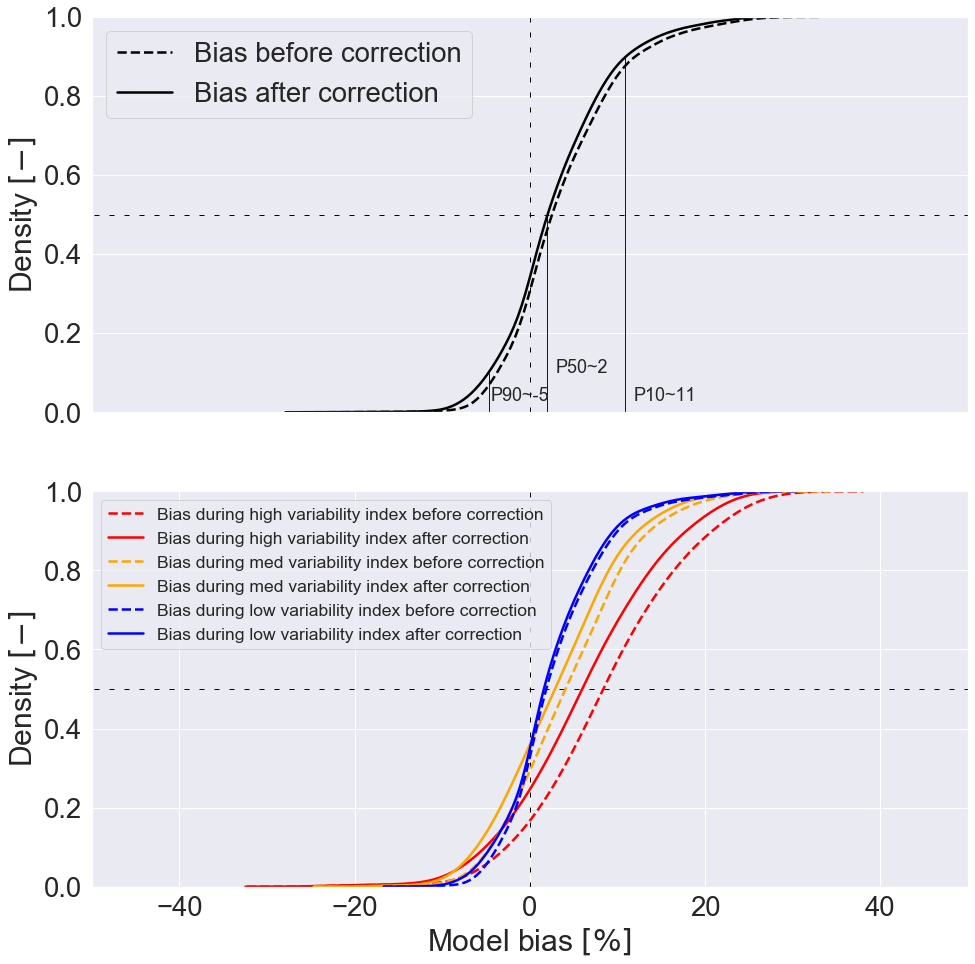
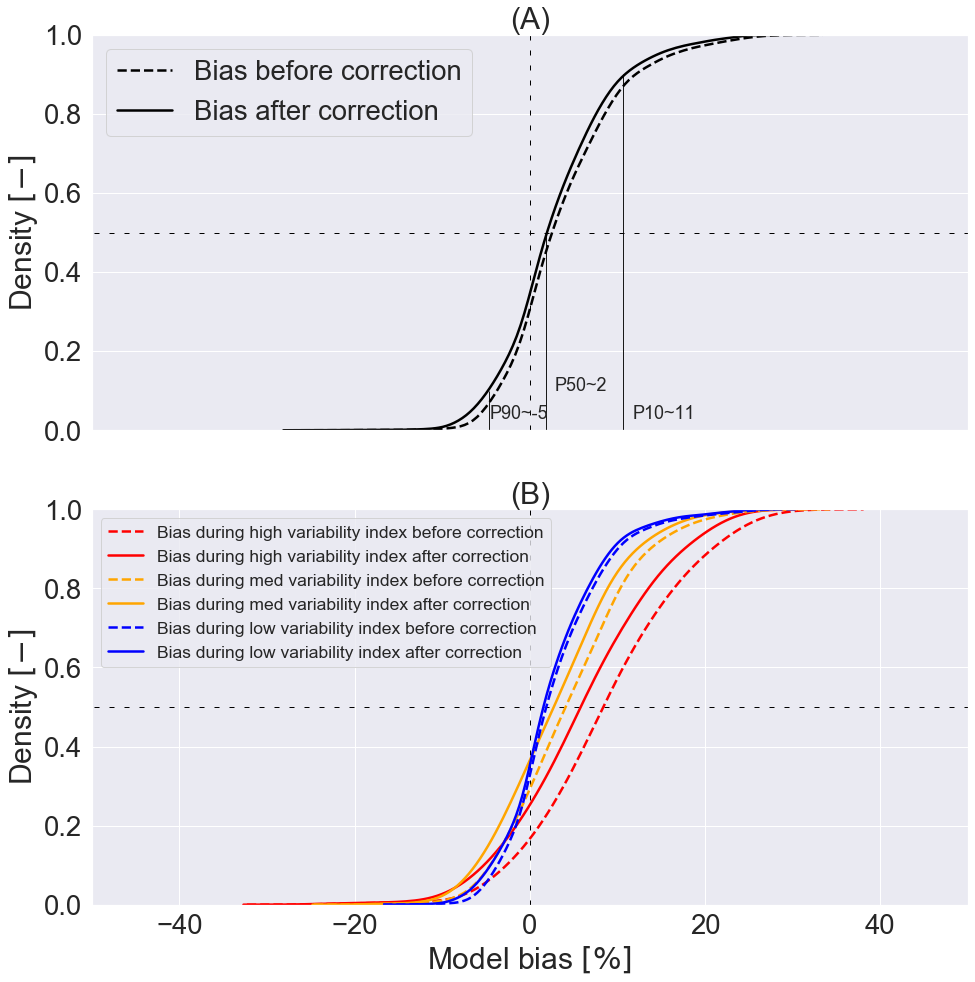
final version

diff --git a/clipping-loss-validation.tex b/clipping-loss-validation.tex
@@ -22,7 +22,7 @@
 
 \title{Validation of Subhourly Clipping Loss Error Corrections}
 
-\author{\IEEEauthorblockN{Abhishek Parikh\textsuperscript{1}, Kevin Anderson\textsuperscript{2}, Kirsten Perry\textsuperscript{2}, William B. Hobbs\textsuperscript{3}, Rounak Kharait\textsuperscript{1},}
+\author{\IEEEauthorblockN{Abhishek Parikh\textsuperscript{1}, Kirsten Perry\textsuperscript{2},Kevin Anderson\textsuperscript{2}, William B. Hobbs\textsuperscript{3}, Rounak Kharait\textsuperscript{1},}
 \IEEEauthorblockN{and Mark A. Mikofski\textsuperscript{1}}
 	\IEEEauthorblockA{\textsuperscript{1}DNV, San Diego, CA, 92123, USA }
     \IEEEauthorblockA{\textsuperscript{2}NREL, Golden, CO, 80401, USA }
@@ -31,7 +31,7 @@
 \maketitle
 
 \begin{abstract}
-Under-performance of solar PV systems is an important issue that increases risks for stakeholders, including developers, investors and operators. Recently some attention has focused on underestimation of inverter clipping losses as a possible source of over-prediction where sub-hourly solar variability is high. Several models and data sets have been analyzed over the past few years, with the aim of quantifying, predicting, and correcting underestimated clipping loss errors for systems with high DC/AC ratio and solar variability. In this research, we apply a machine learning model developed at NREL to two physical PV systems, to correct for subhourly clipping losses. For each system, we compare overall AC power output for the model taken at 1-minute intervals to AC power output taken at 1-hour intervals with the addition of the subhourly clipping correction. Our findings consistently show that the addition of the clipping loss correction lead to a reduction in mean bias error of 0.6\% and 1.1\% for systems A and B, respectively, with no additional filtering applied. When examining high solar variability periods where clipping is more pronounced, system A and B experienced a 1.4\% and 2.5\% reduction in mean bias error, respectively, when the clipping correction was applied.
+Under-performance of solar PV systems is an important issue that increases risks for stakeholders, including developers, investors and operators. Recently some attention has focused on underestimation of inverter clipping losses as a possible source of over-prediction where sub-hourly solar variability is high. Several models and data sets have been analyzed over the past few years, with the aim of quantifying, predicting, and correcting underestimated clipping loss errors for systems with high DC/AC ratio and solar variability. In this research, we apply a machine learning model developed at NREL to two physical PV systems, to correct for subhourly clipping losses. For each system, we compare overall AC power output for the model taken at 1-minute intervals to AC power output taken at 1-hour intervals with the addition of the subhourly clipping correction. Our findings consistently show that the addition of the clipping loss correction lead to a reduction in mean bias error of 0.8\% and 1.2\% for systems A and B, respectively, with no additional filtering applied. When examining high solar variability periods where clipping is more pronounced, system A and B experienced a 1.8\% and 2.7\% reduction in mean bias error, respectively, when the clipping correction was applied.
 \end{abstract}
 
 \begin{IEEEkeywords}
@@ -39,9 +39,9 @@ inverter, clipping, solar, irradiance, variability, performance, modeling, TMY
 \end{IEEEkeywords}
 
 \section{Introduction}
-In its report "2020 Solar Risk Assessment" \cite{Matsui2020}, kWh Analytics warned that systematic underproduction across the industry exposes investors to increased risk. DNV found that a sample of 39 projects from 2019 were under-performing compared to their pre-construction energy assessments by 3\% on average, as shown in Fig.~\ref{fig:project-underperformance}. NextEra estimates that sub-hourly solar resource variability can affect actual energy production by approximately 1-4\% \cite{Bradford}. Cormode, \textit{et al.}, explained that energy assessments based on hourly weather, like typical meteorological year (TMY) data sets, underestimate inverter clipping losses by up to 5\% for projects with intra-hourly solar variability, especially for high DC/AC ratios \cite{Cormode2019}. This is demonstrated in Fig.~\ref{fig:irradiance-and-power}, which shows irradiance and power output simulated at 1-minute and 1-hour resolution in the top and bottom panels, respectively. On July 10th, there is little intra-hour variability, indicative of a mostly clear day where hourly and sub-hourly simulations are in close agreement. In contrast, July 13th has much higher solar variability, but no clipping is observed in the 1-hour output. However, the 1-minute resolution shows intermittent clipping all day long, indicating that not all of the available irradiance is used by the system, and the hourly simulations underestimate inverter clipping \cite{Kharait}.
+In its report "2020 Solar Risk Assessment" \cite{Matsui2020}, kWh Analytics warned that systematic underproduction across the industry exposes investors to increased risk. DNV found that a sample of 39 projects from 2019 were under-performing compared to their pre-construction energy assessments by 3\% on average, as shown in Fig.~\ref{fig:project-underperformance}. NextEra estimates that sub-hourly solar resource variability can affect actual energy production by approximately 1-4\% \cite{Bradford}. Cormode, \textit{et al.}, explained that energy assessments based on hourly weather, like typical meteorological year (TMY) data sets, underestimate inverter clipping losses by up to 5\% for projects at an annual level with intra-hourly solar variability, especially for high DC/AC ratios \cite{Cormode2019}. Allen, \textit{et al.}, used measured 1-minute weather data to model clipping loss underestimation from using hourly data, in the Southeast US \cite{Allen2015} and at ten sites across the country \cite{Allen2018}, for a range of DC/AC ratios and, for a subset of sites, across multiple years. They estimated similar errors, with some sites seeing errors of 2 to over 4\% for DC/AC ratios of 1.4 to 2.0, respectively. This is demonstrated in Fig.~\ref{fig:irradiance-and-power}, which shows irradiance and power output simulated at 1-minute and 1-hour resolution in the top and bottom panels, respectively. On July 10th, there is little intra-hour variability, indicative of a mostly clear day where hourly and sub-hourly simulations are in close agreement. In contrast, July 13th has much higher solar variability, but no clipping is observed in the 1-hour output. However, the 1-minute resolution shows intermittent clipping all day long, indicating that not all of the available irradiance is used by the system, and the hourly simulations underestimate inverter clipping \cite{Kharait}.
 
-% what does the team think about citing (non-peer-reviewed) PVPMC posters? one or more of the posters that Jon Allen has presented (with me, sometimes EPRI) could be worth citing. 
+
 
 \begin{figure}[htbp]
 \centerline{\includegraphics[width=9cm]{fig1.png}}
@@ -58,9 +58,9 @@ In its report "2020 Solar Risk Assessment" \cite{Matsui2020}, kWh Analytics warn
 \end{figure}
 
 
-Several methods have been proposed to correct clipping loss error in hourly predictions \cite{Cormode2019,Kharait,Anderson2020,Bradford}, but only NextEra validated their method with operational data \cite{Bradford}. 
-% consider adding a reference to Hofmann 2014 (https://doi.org/10.1155/2014/808509), used in PV*SOL (see Lindemann presentation from 2017 PVPMC in ABQ, https://pvpmc.sandia.gov/resources-and-events/events/2017-8th-pv-performance-modeling-workshop/)
-In this report, we adapt the NREL machine learning-based model \cite{Anderson2020} to predict clipping loss corrections and apply these corrections to hourly energy assessments. The adjusted energy assessment is then validated against operational data from the same system and we report on the average and distribution of validation errors.  We have obtained data from two operating PV systems in Georgia, US, with DC/AC ratios around 1.4. In this paper, we will outline our method and present model validation results for these two systems. 
+Several methods have been proposed to correct clipping loss error in hourly predictions \cite{Cormode2019,Kharait,Anderson2020,Bradford,Allen2019,hofmann2014improved}, but only NextEra validated their method with operational power data \cite{Bradford}. 
+
+In this report, we adapt the NREL machine learning-based model \cite{Anderson2020} to predict clipping loss corrections and apply these corrections to hourly energy assessments. The adjusted energy assessment is then validated against operational data from the same system and we report on the average and distribution of validation errors.  We have obtained data from two operating PV systems in the southeast US, with DC/AC ratios around 1.4. In this paper, we will outline our method and present model validation results for these two systems. 
 
 \section{Methods}
 
@@ -74,7 +74,7 @@ The machine learning (ML) model developed at NREL has already been described in 
 \item System DC/AC ratio
 \item Modeled AC power (taken from the SAM simulation) 
 \end{itemize}
-The model was trained using high quality irradiance measurements from data sources including SURFRAD, SOLRAD, UOSRML, MIDC, and BSRN \cite{Augustine2000} and 1-minute to 30-minute clipping loss errors predicted using SAM \cite{Freeman2018}. The resulting trained model was then used to make predictions at the operational systems.
+The model was trained using high quality irradiance measurements from data sources including SURFRAD, SOLRAD, UOSRML, MIDC, and BSRN \cite{Augustine2000} \cite{solrad} and 1-minute to 30-minute clipping loss errors predicted using SAM \cite{Freeman2018}. The resulting trained model was then used to make predictions at the operational systems.
 
 \subsection{Systems}
 
@@ -109,14 +109,14 @@ Ground coverage ratio & 0.3 & 0.3 \\
 \subsection{Validation}
 A challenge in validating the clipping loss correction model is the lack of quality high-frequency irradiance measurements that are co-located with operational PV systems. Therefore this model differs from traditional approaches for model training and validation because it relies on high-quality ground station data measurements and SAM-simulated data to train the model, but uses operational data from different systems for validation. So no holdout methods are required in validating this model because the training and validation data sets are already independent. The downside of this method is that any systematic biases in SAM are introduced into the clipping loss correction model. In future work, if a large population of high-frequency irradiance and co-located operational data are obtained, the model can be retrained holding out a subset of the data for validation. This procedure would have the benefit of incorporating any physical effects that are not captured by SAM.
 
-Quality of operational datasets is vital to avoid disruption of validation. Data points in the operational dataset related to plant sub-performance instances due to sources other than subhourly clipping error are considered to be outliers from the validation's standpoint and need to be removed. However, detecting sub-performance from inverter output is challenging. For this validation effort, the bias change is presented for both unfiltered and filtered data points. For filtering, data points that met the following criteria were removed: 
+Quality of operational datasets is vital to avoid disruption of validation. Data points in the operational dataset related to plant sub-performance instances due to sources other than subhourly clipping error are considered to be outliers from the validation's standpoint and need to be removed. However, detecting sub-performance from inverter output is challenging. For this validation effort, the bias change is presented for both unfiltered and filtered data points. For filtering, data points that met the following criteria were retained: 
 \begin{itemize}
 \item The difference between the measured, on-site POA and the modeled POA calculated using the NSRDB \cite{Sengupta2018} data is less than 5\% 
-\item The difference between actual power and simulated power of a particular timestep is more than 25\%. 
+\item The difference between actual power and simulated power of a particular timestep is less than 25\%. 
 \end{itemize}
 For system A and system B, 60.5\% and 55.1\% of the data is retained after applying the data filter, respectively.
 
-In addition, high clipping errors occur during periods where the plant observes DC clipping (usually corresponding to higher irradiance), and high fluctuations in the irradiance. For the purpose of this validation, the fluctuations are quantified by calculating the variability index based on \cite{Stein}. The variability index is normally defined on GHI. However, since only on-site measured POA was available, the variability index for this study was calculated and aggregated at 30-min intervals using the on-site POA measured at a 1-min frequency. Since the ML model should be correcting only those periods with such conditions, the change is split into sets of low and high variability index. Periods are divided into three sets based on their variability index value:
+In addition, high clipping errors occur during periods where the plant observes DC clipping (usually corresponding to higher irradiance), and high fluctuations in the irradiance. For the purpose of this validation, the fluctuations are quantified by calculating the variability index based on \cite{Stein}. The variability index is normally defined on GHI. However, since only on-site measured POA was available, the variability index for this study was calculated and aggregated at 30-min intervals using the on-site POA measured at a 1-min frequency. The clearsky POA was calculated using the Perez implementation avaiable in pvlib \cite{Holmgren2018}. Since the ML model should be correcting only those periods with  high fluctuations, the change is split into sets of low and high variability index. Periods are divided into three sets based on their variability index value:
 \begin{itemize}
 \item Low variability index  $(\leq10)$ 
 \item Medium variability index  $(>10$ \& $\leq50)$. 
@@ -128,7 +128,7 @@ Table.~\ref{var_index_breakdown} shows the composition of the on-site data based
 
 
 \begin{table}[htbp]
-\caption{Composition of data based on variability index}
+\caption{Composition of unfiltered data based on variability index}
 \begin{center}
 \begin{tabular}{ |c|c|c| } 
 \hline
@@ -154,11 +154,11 @@ The bias in model results is used to measure the reduction in clipping loss erro
 \Delta E={E_\text{predicted}} - {E_\text{measured}}\label{eq:bias}
 \end{equation}
 where $E$ is the energy output.
-\item \textbf{Mean bias error (MBE)}: Average of the bias. Please note that a low MBE might hide seasonal or diurnal bias:
+\item \textbf{Mean bias error (MBE)}: Average of the bias:
 \begin{equation}
 \mathit{MBE}=\frac{\sum_{n=1}^N{\Delta E_n}}{N}\label{eq:mbe}
 \end{equation}
-Where $n$ is a single timestep, and $N$ is the total number of time intervals.
+Where $n$ is a single timestep, and $N$ is the total number of time intervals. Please note that a low MBE might hide seasonal or diurnal bias
 \end{itemize}
 
 
@@ -166,7 +166,7 @@ Where $n$ is a single timestep, and $N$ is the total number of time intervals.
 
 30-minute NSRDB data from each system was fed into the ML model to make clipping error predictions. Model input parameters are previously described in the Methods section.
 
-Time steps with a higher variability index should have higher clipping errors. Our results, shown in Fig. ~\ref{fig:DCS-vi-clec-heatmap}, support this statement. Fig.~\ref{fig:DCS-vi-clec-heatmap} displays a heat map of average variability index, as well as the average clipping loss error correction predicted for system A. Generally, higher variability periods coincide with higher clipping loss corrections, usually occurring in the middle of the day around 1 pm, and during summer months.
+Time steps with a higher variability index should have higher clipping errors. Our results, shown in Fig. ~\ref{fig:DCS-vi-clec-heatmap}, support this statement. Fig.~\ref{fig:DCS-vi-clec-heatmap} displays a heat map of average variability index, as well as the average clipping loss error correction predicted for system A. Generally, higher variability periods coincide with higher clipping loss corrections, usually occurring around the middle of the day, and during summer months.
 
 \begin{figure}[htbp]
 \centerline{\includegraphics[width=9cm]{DCS_VI_CLEC_heatmap.png}}
@@ -182,7 +182,7 @@ Fig.~\ref{fig:DCS-inv-modelbias-poa-scatter} shows the actual power of an invert
 \label{fig:DCS-inv-modelbias-poa-scatter}
 \end{figure}
 
-For the energy model, 30-minute NSRDB data was used to generate a time series of energy estimates for system A and system B. Then, these energy estimates were corrected using the clipping loss error corrections predicted by the ML model. Table.~\ref{table2} summarizes the mean bias errors in the energy models before and after applying the correction, for systems A and B respectively. The overall shift in the bias is small for each time series. As indicated by Fig.~\ref{fig:DCS-vi-clec-heatmap} and Fig.~\ref{fig:DCS-inv-modelbias-poa-scatter}, the magnitude of the clipping loss error correction should be high during time steps with a high variability index and low during time steps with a low variability index. Hence, the bias is explored based on the low, medium and high variability index categories described in the Validation section. Part (A) of Fig.~\ref{fig:DCS-modelbias-cdf} and Fig.~\ref{fig:PAW-modelbias-cdf} shows the cumulative distribution of the overall bias before and after correction. Part (B) of these figures shows the bias broken down by the variability index. Bias is high for the points with a high variability index, and low for points with a low variability index.  Promisingly, applying the clipping correction factor for high solar variability periods where clipping is most prominent results in the largest reduction in MBE. For unfiltered system A high VI data, applying the clipping correction factor results in a 1.4\% reduction in MBE; similarly, applying the clipping correction factor for the associated system B data results in a 2.5\% reduction in MBE.
+For the energy model, 30-minute NSRDB data was used to generate a time series of energy estimates for system A and system B. Then, these energy estimates were corrected using the clipping loss error corrections predicted by the ML model. Table.~\ref{results_before_filter} summarizes the mean bias errors in the energy models before and after applying the correction, for systems A and B respectively. The overall shift in the bias is small for each time series. As indicated by Fig.~\ref{fig:DCS-vi-clec-heatmap} and Fig.~\ref{fig:DCS-inv-modelbias-poa-scatter}, the magnitude of the clipping loss error correction should be high during time steps with a high variability index and low during time steps with a low variability index. Hence, the bias is explored based on the low, medium and high variability index categories described in the Validation section. Part (A) of Fig.~\ref{fig:DCS-modelbias-cdf} and Fig.~\ref{fig:PAW-modelbias-cdf} shows the cumulative distribution of the overall bias before and after correction. Part (B) of these figures shows the bias broken down by the variability index. Bias is high for the points with a high variability index, and low for points with a low variability index.  Promisingly, applying the clipping correction factor for high solar variability periods where clipping is most prominent results in the largest reduction in MBE. For unfiltered system A high VI data, applying the clipping correction factor results in a 1.8\% reduction in MBE; similarly, applying the clipping correction factor for the associated system B data results in a 2.7\% reduction in MBE.
 
 \begin{table}[htbp]
 \caption{Results summary by System}
@@ -193,25 +193,25 @@ For the energy model, 30-minute NSRDB data was used to generate a time series of
 System & Metric & Before     & After      & Change\\
      &        & correction & correction & [\%]\\
 \hline
-System A & Overall MBE & 5.4\% & 4.8\% & -0.6\\
+System A & Overall MBE & 5.4\% & 4.6\% & -0.8\\
 \hline
-System A & MBE (High VI) & 10.7\% & 9.3\% & -1.4\\
+System A & MBE (High VI) & 10.7\% & 8.9\% & -1.8\\
 \hline
-System A & MBE (Medium VI) & 4.3\% & 3.5\% & -0.8 \\
+System A & MBE (Medium VI) & 4.3\% & 3.3\% & -1.0 \\
 \hline
-System A & MBE (Low VI) & 4.4\% & 4.0\% & -0.4\\
+System A & MBE (Low VI) & 4.4\% & 3.9\% & -0.5\\
 \hline
-System B & Overall MBE & 7.8\% & 6.7\% & -1.1\\
+System B & Overall MBE & 7.8\% & 6.6\% & -1.2\\
 \hline
-System B & MBE (High VI) & 10.4\% & 7.9\% & -2.5\\
+System B & MBE (High VI) & 10.4\% & 7.7\% & -2.7\\
 \hline
-System B & MBE (Medium VI) & 7.7\% & 6.3\% & -1.4\\
+System B & MBE (Medium VI) & 7.7\% & 6.1\% & -1.6\\
 \hline
-System B & MBE (Low VI) & 7.1\% & 6.5\% & -0.6\\
+System B & MBE (Low VI) & 7.1\% & 6.4\% & -0.7\\
 \hline
 \end{tabular}}
 \end{center}
-\label{table2}
+\label{results_before_filter}
 \end{table}
 
 \begin{figure}[htbp]
@@ -226,9 +226,9 @@ System B & MBE (Low VI) & 7.1\% & 6.5\% & -0.6\\
 \label{fig:PAW-modelbias-cdf}
 \end{figure}
 
-The overall model bias in Fig.~\ref{fig:DCS-modelbias-cdf} and Fig.~\ref{fig:PAW-modelbias-cdf} can be attributed to many reasons. Factors like the difference in the resource measured on-site and in the NSRDB dataset, system-specific sub-performance, incorrect loss assumption in the energy model, etc., impact the bias along with the clipping loss errors. However, for a given data point, it is unrealistic to have a bias of greater than 25\% in power when the bias in POA is less than 5\%. Consequently, points fitting this logic are removed and the bias change is recalculated. Table.~\ref{results_after_filter} summarizes the mean bias errors in the filtered data points of the energy models before and after applying the correction, for systems A and B respectively. Fig.~\ref{fig:DCS-modelbias-after-filter-cdf} and Fig.~\ref{fig:PAW-modelbias-after-filter-cdf} show the bias before and after the correction for this filtered dataset. Compared to the CDFs plotted for the unfiltered dataset, these plots show a much tighter distribution as the outliers are removed. 
+The overall model bias in Fig.~\ref{fig:DCS-modelbias-cdf} and Fig.~\ref{fig:PAW-modelbias-cdf} can be attributed to many reasons. Factors like the difference in the resource measured on-site and in the NSRDB dataset, system-specific sub-performance, incorrect loss assumptions in the energy model, etc., impact the bias along with the clipping loss errors. However, for a given data point, it is unrealistic to have a bias of greater than 25\% in power when the bias in POA is less than 5\%. Consequently, points fitting this logic are removed and the bias change is recalculated. Table.~\ref{results_after_filter} summarizes the mean bias errors in the filtered data points of the energy models before and after applying the correction, for systems A and B respectively. Fig.~\ref{fig:DCS-modelbias-after-filter-cdf} and Fig.~\ref{fig:PAW-modelbias-after-filter-cdf} show the bias before and after the correction for this filtered dataset. Compared to the CDFs plotted for the unfiltered dataset, these plots show a much tighter distribution as the outliers are removed. 
 
-Results for the filtered data mirror the unfiltered data results, except with lower overall mean bias error values. Interestingly, the drop in mean bias error after applying the clipping error correction is generally consistent for both filtered and unfiltered data (see the "\% Change" field in Tables III and IV for comparison). For example, the drop in overall MBE for unfiltered data is 0.6\% vs. 0.5\% for filtered data for system A. Similarly the overall MBE difference is 1.1\% for unfiltered data and 0.8\% for filtered data for system B.  
+Results for the filtered data mirror the unfiltered data results, except with lower overall mean bias error values. Interestingly, the drop in mean bias error after applying the clipping error correction is generally consistent for both filtered and unfiltered data (see the "\% Change" field in Tables \ref{results_before_filter} and \ref{results_after_filter} for comparison). For example, the drop in overall MBE for unfiltered data is 0.8\% vs. 0.5\% for filtered data for system A. Similarly the overall MBE difference is 1.2\% for unfiltered data and 0.8\% for filtered data for system B.  
 
 \begin{table}[htbp]
 \caption{Results summary by System, after filtering}
@@ -241,19 +241,19 @@ System & Metric & Before     & After      & Change\\
 \hline
 System A & Overall MBE & 2.3\% & 1.8\% & -0.5\\
 \hline
-System A & MBE (High VI) & 10.6\% & 9.2\% & -1.4 \\
+System A & MBE (High VI) & 10.7\% & 9.0\% & -1.7 \\
 \hline
-System A & MBE (Medium VI) & 3.1\% & 2.4\% & -0.7\\
+System A & MBE (Medium VI) & 3.1\% & 2.2\% & -0.9\\
 \hline
 System A & MBE (Low VI) & 1.1\% & 0.8\% & -0.3\\
 \hline
 System B & Overall MBE & 3.6\% & 2.8\% & -0.8\\
 \hline
-System B & MBE (High VI) & 8.7\% & 6.1\% & -2.6\\
+System B & MBE (High VI) & 8.7\% & 5.9\% & -2.8\\
 \hline
-System B & MBE (Medium VI) & 4.4\% & 3.0\% & -1.4\\
+System B & MBE (Medium VI) & 4.4\% & 2.9\% & -1.5\\
 \hline
-System B & MBE (Low VI) & 2.8\% & 2.4\% & -0.4\\
+System B & MBE (Low VI) & 2.8\% & 2.3\% & -0.5\\
 \hline
 \end{tabular}}
 \end{center}
@@ -274,7 +274,7 @@ System B & MBE (Low VI) & 2.8\% & 2.4\% & -0.4\\
 \end{figure}
 
 \section{Conclusions}
-Over-prediction occurs in typical energy assessments that use hourly data if the systems have sub-hourly solar variability and high DC/AC because clipping losses are underestimated. These errors have been quantified using a machine-learning model trained on high-frequency solar irradiance data and simulated operational data to create clipping loss error corrections. The corrections were applied to a typical hourly energy assessment of an existing operational system and compared to the measured output from the same system. Model bias was calculated before and after the clipping correction was applied, and the difference in MBE values was compared. Overall, the clipping correction outputs from the model reduced bias in the energy assessments by 0.6\% and 1.1\% for systems A and B,  respectively, with no additional data filters applied. For high solar variability periods where clipping is most pronounced, the difference in MBE before and after applying the clipping correction is more pronounced. For unfiltered data with a high VI index, the MBE difference after applying the correction was 1.4\% and 2.5\% for systems A and B, respectively. 
+Over-prediction occurs in typical energy assessments that use hourly data if the systems have sub-hourly solar variability and high DC/AC, because clipping losses are underestimated. These errors have been quantified using a machine-learning model trained on high-frequency solar irradiance data and simulated operational data to create clipping loss error corrections. The corrections were applied to a typical hourly energy assessment of an existing operational system and compared to the measured output from the same system. Model bias was calculated before and after the clipping correction was applied, and the difference in MBE values was compared. Overall, the clipping correction outputs from the model reduced bias in the energy assessments by 0.8\% and 1.2\% for systems A and B,  respectively, with no additional data filters applied. However, these bias reductions should be interpreted with two points in consideration:  first, clipping loss error decreases with decreasing simulation timestep, so the corrections in this 30-minute validation are somewhat smaller than they would be in an hourly context; and second, based on the CDF comparisons, it seems likely that the model corrections do not fully eliminate the bias. Thus, the bias reductions reported in this paper likely underestimate the bias of a typical energy model. For high solar variability periods where clipping is most pronounced, the difference in MBE before and after applying the clipping correction is more pronounced. For unfiltered data with a high VI index, the MBE difference after applying the correction was 1.8\% and 2.7\% for systems A and B, respectively. 
 
 \section*{Acknowledgment}
 
